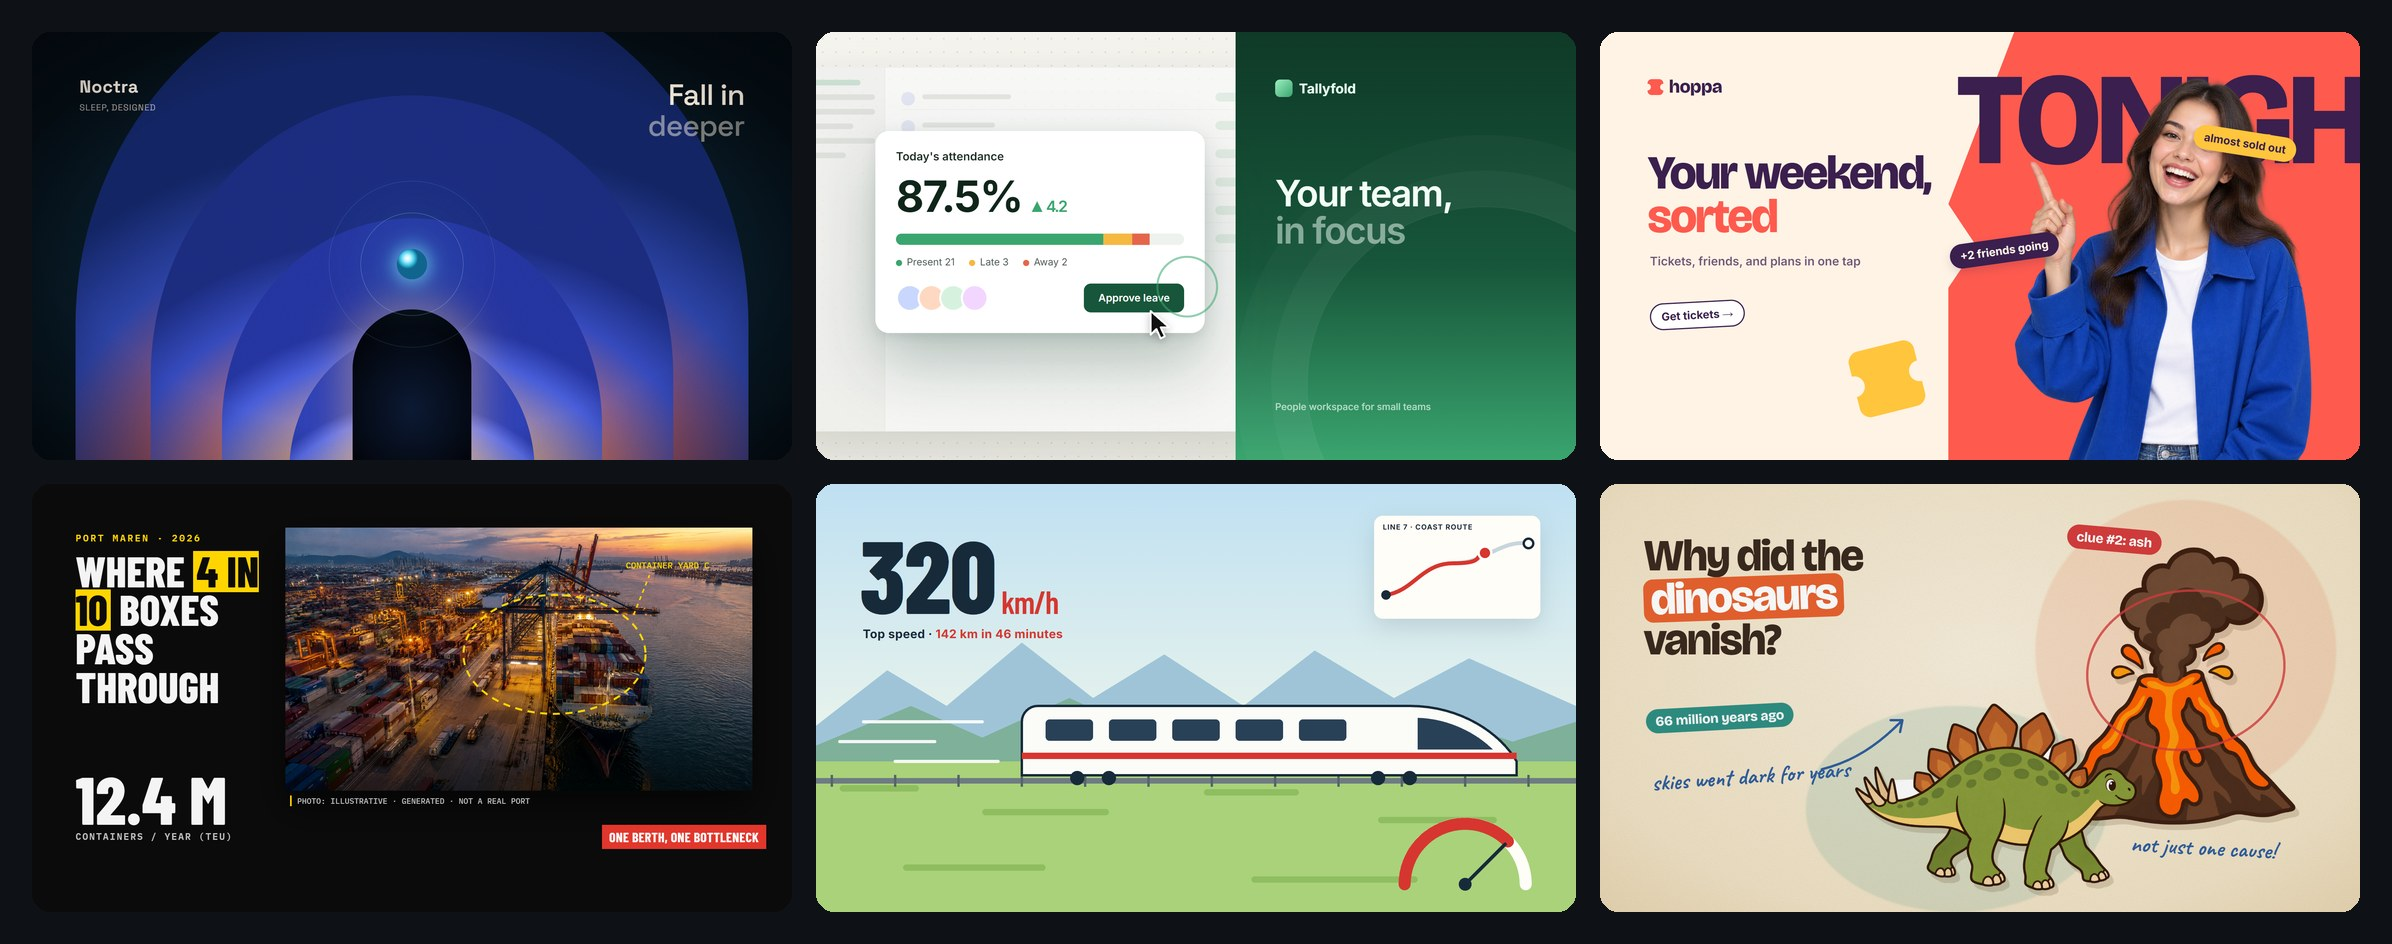
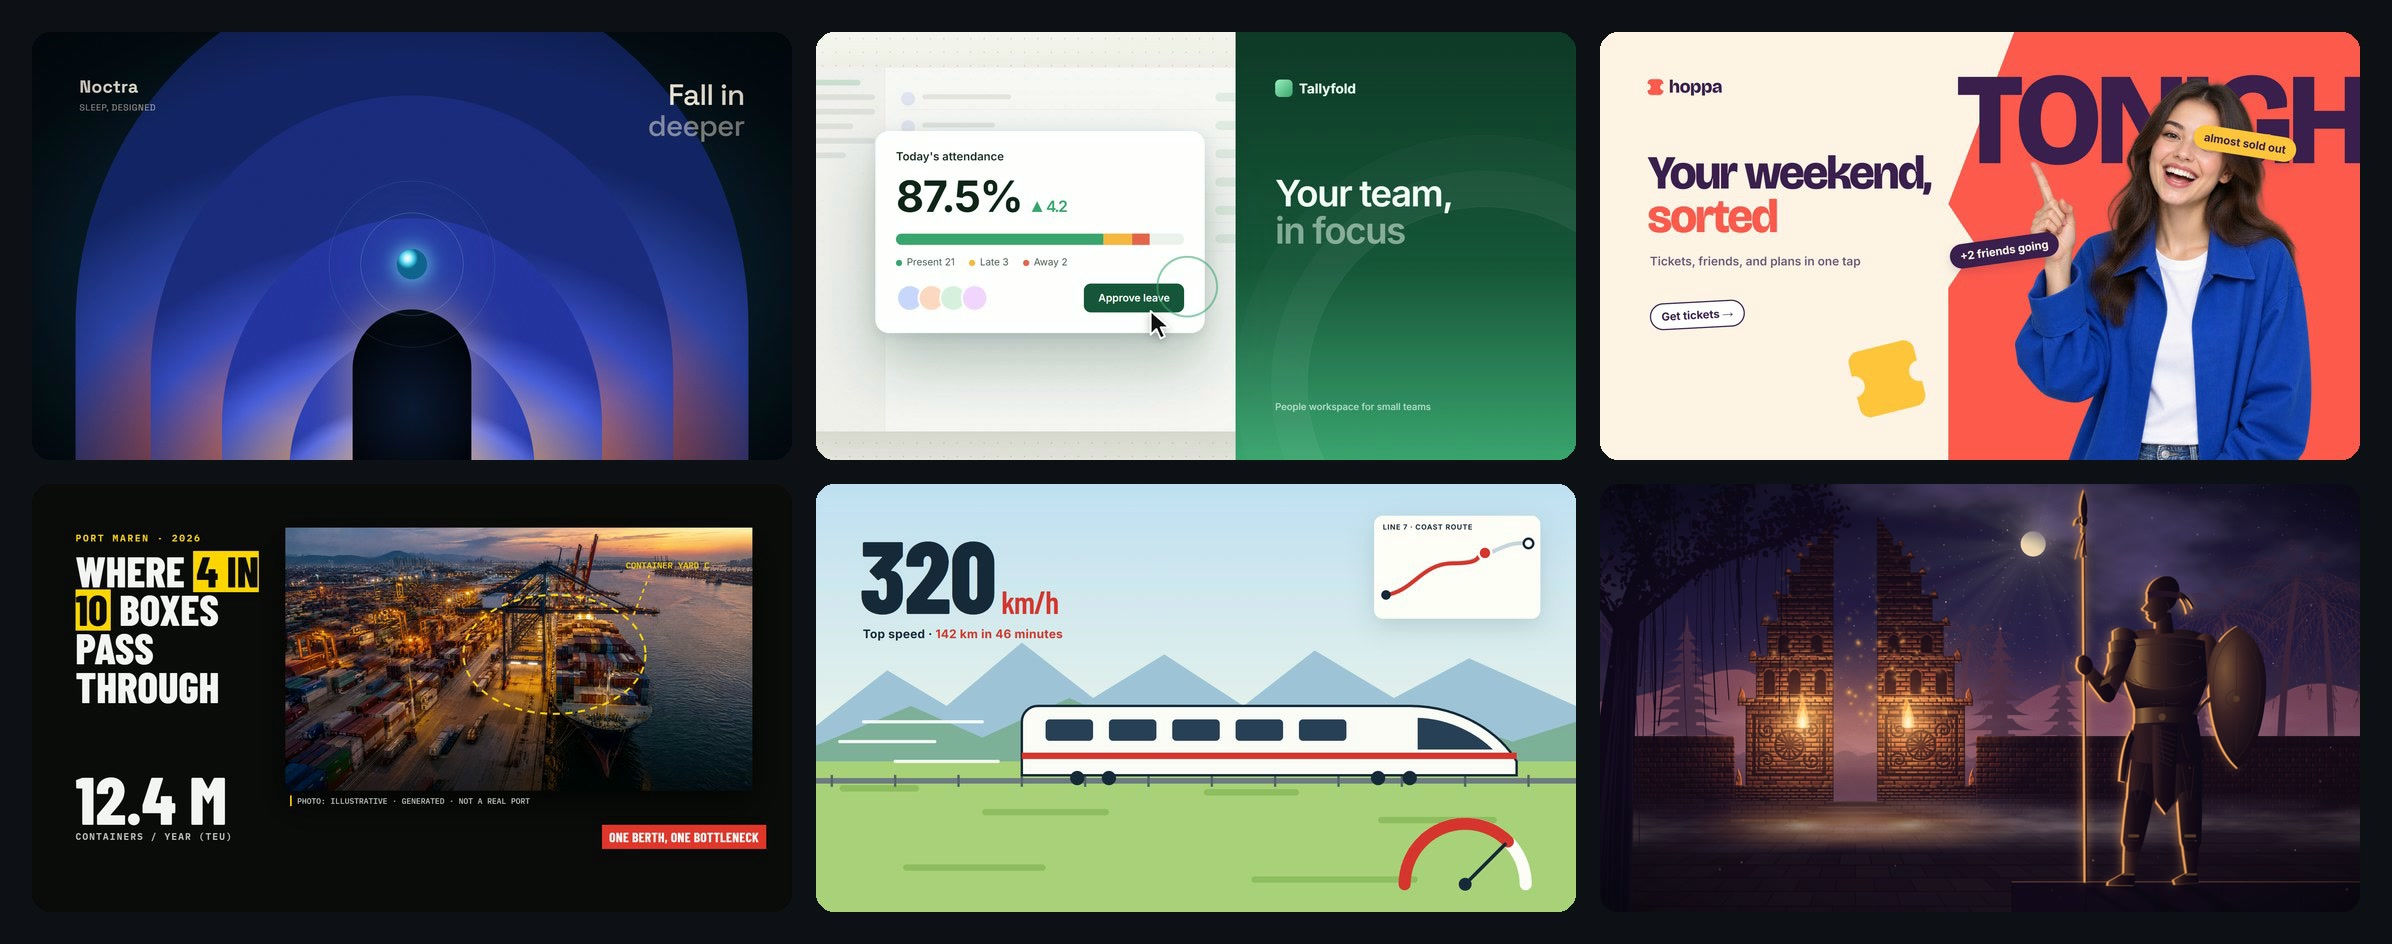
galeri README: still sinematik 100 % kode (tile 13 + sel hero)
- docs/gallery/13-cinematic-silhouette.jpg: frame t = 0 dtk dari
  starter-explainer.html?demo=sinematik (1600x900), baris teratas galeri
- hero.jpg: sel kanan-bawah (kartun kolase) diganti still yang sama,
  760x428, sudut R18 seperti sel lain; kartun kolase tetap di tabel
- README: catatan galeri menyebut still ini dirender langsung dari
  starter (SVG, Canvas, WebGL, tanpa gambar); CHANGELOG 1.3.0 satu butir

Changed region(s): [[0.6497, 0.4915, 0.99, 0.9831]]

diff --git a/README.md b/README.md
@@ -12,7 +12,7 @@ Openers, promos, product demos, kinetic typography, and explainers — built as 
 [![Agent Skills](https://img.shields.io/badge/format-Agent%20Skills-1c2a4a?style=flat-square)](#install)
 [![Works with](https://img.shields.io/badge/works%20with-Claude%20Code%20%C2%B7%20Codex%20%C2%B7%20Gemini%20CLI%20%C2%B7%20Cursor-7a5af5?style=flat-square)](#install)
 
-<img src="docs/gallery/hero.jpg" alt="A grid of styles WeVai can build: grainy gradient opener, SaaS product tour, flat pop promo with photos, visual journalism explainer, continuous action explainer, cartoon collage explainer" width="100%">
+<img src="docs/gallery/hero.jpg" alt="A grid of styles WeVai can build: grainy gradient opener, SaaS product tour, flat pop promo with photos, visual journalism explainer, continuous action explainer, cinematic night scene lit by torches (100% code)" width="100%">
 
 [What you can make](#what-you-can-make) · [Style gallery](#style-gallery) · [Workflow](#recommended-workflow) · [Example prompts](#example-prompts) · [Install](#install) · [FAQ](#faq)
 
@@ -43,9 +43,12 @@ Every deliverable is one `index.html`: double-click to play, autoplay + loop, `?
 
 ## Style gallery
 
-> Each frame below is a **single static scene** built for this README with **fictional brands and data**. The portrait, product photos, port photo, engraving, and cartoon cutouts were generated with GPT Image 2.5; everything else is HTML, CSS, and SVG. Real projects take their palette, type, and imagery from your brand.
+> Each frame below is a **single static scene** built for this README with **fictional brands and data**. The portrait, product photos, port photo, engraving, and cartoon cutouts were generated with GPT Image 2.5; everything else is HTML, CSS, and SVG. Real projects take their palette, type, and imagery from your brand. The exception is the cinematic night scene: a frame rendered straight from `assets/starter-explainer.html?demo=sinematik`, 100% code (SVG, Canvas, WebGL) with no images at all.
 
 <table>
+<tr>
+<td colspan="2"><img src="docs/gallery/13-cinematic-silhouette.jpg" alt="Cinematic night scene: a temple gate lit by two flickering torches, a rim-lit guard silhouette, layered fog and embers under a moonlit sky"><br><b>Cinematic silhouette</b> · history explainer, 100% code<br><sub>Torches that flicker and light what is near them, rim-lit silhouettes, layered fog, embers, one color grade. Built from the <code>atmosfer</code>, <code>cahaya-2d</code>, and <code>pasca</code> modules (1.3.0). History, culture, documentaries.</sub></td>
+</tr>
 <tr>
 <td width="50%"><img src="docs/gallery/01-grainy-gradient.jpg" alt="Grainy gradient opener"><br><b>Grainy gradient</b> · opener<br><sub>Glowing layered shapes, soft grain, a camera that travels through them. Tech, AI, music, premium launches.</sub></td>
 <td width="50%"><img src="docs/gallery/02-kinetic-colorblock.jpg" alt="Kinetic typography in poster color-block"><br><b>Poster color-block</b> · kinetic typography<br><sub>Huge cropped words, solid color fields that slam in on the beat. Events, music, launches.</sub></td>

diff --git a/CHANGELOG.md b/CHANGELOG.md
@@ -61,6 +61,9 @@ fungsi, bukan kode sekali pakai.
   determinisme.
 - **Dokumen**: resep ≤ 25 baris di `techniques.md` §7d (urutan panggilan, aturan yang dipanggang, anggaran partikel)
   dan satu contoh pemakaian di `kartun-panggung.md` kulit B.
+- **Galeri README**: still pertama yang 100 % kode, `docs/gallery/13-cinematic-silhouette.jpg` (frame t = 0 dtk demo
+  sinematik), di baris teratas galeri dan di `hero.jpg`. Di hero, still ini menggantikan sel kartun kolase; kartun
+  kolase tetap ada di tabel galeri.
 - **Anggaran konteks**: `context-budget.mjs` kini menghitung panjang tanpa CR (checkout Windows dengan
   `core.autocrlf` menambah satu karakter per baris: angka membengkak 1–3 KB per jalur, mis. panggung 165 → 163 KB,
   Opener 3D 241 → 239 KB). Batas dinaikkan: **Explainer kartun panggung 130 → 170 KB** (+40, perkakas: blok
